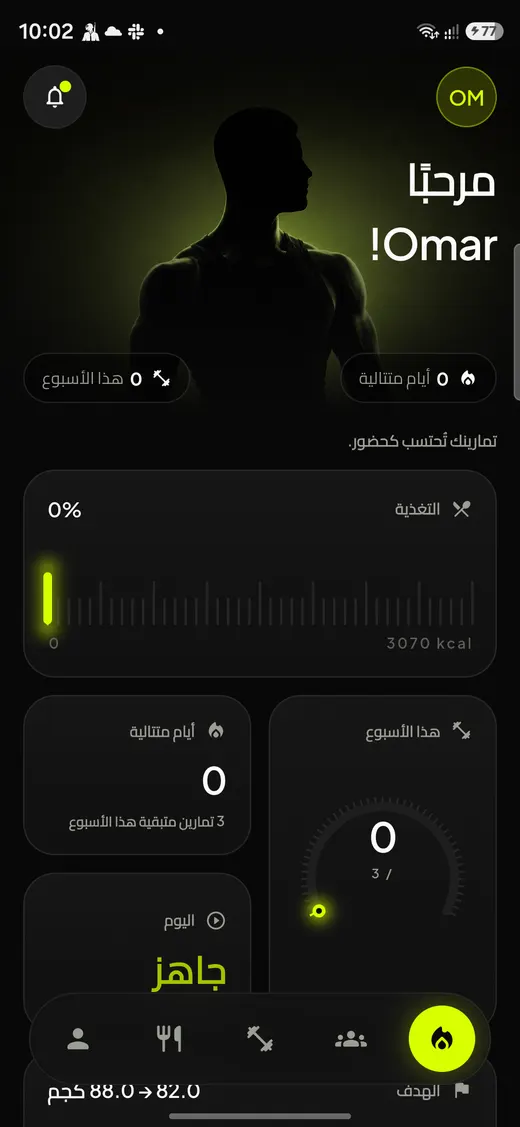
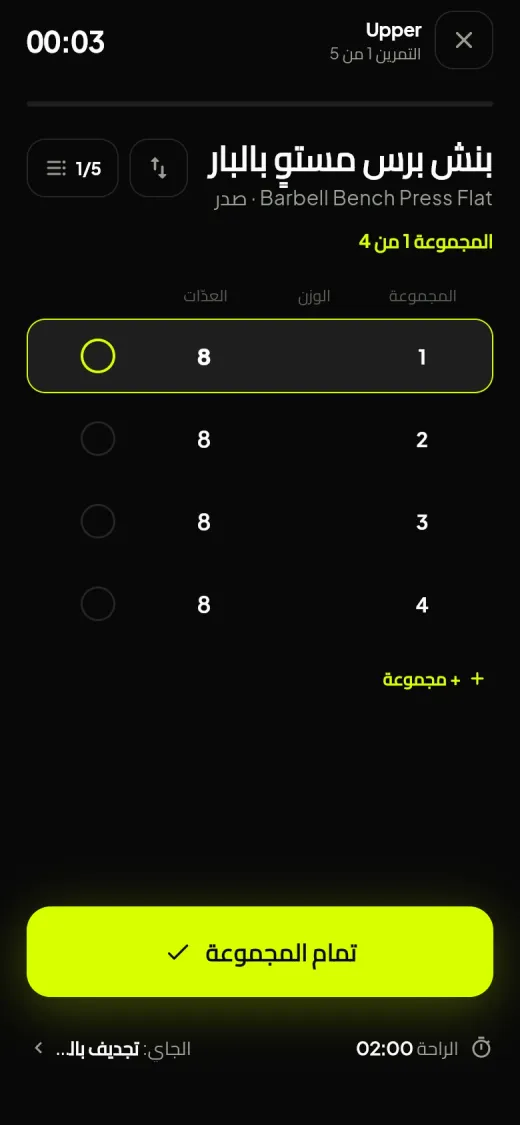
Use current Batal app screenshots and gym dashboard

diff --git a/src/style.css b/src/style.css
@@ -205,11 +205,14 @@ h2, h3 { font-weight: 800; font-stretch: 75%; text-transform: uppercase; letter-
 
 .proj__vis { position: relative; aspect-ratio: 5 / 3.6; border: 1.5px solid currentColor; border-radius: 14px; overflow: hidden; }
 .proj__vis svg { position: absolute; inset: 0; width: 100%; height: 100%; }
-.proj__vis--phones { border: 0; border-radius: 0; overflow: visible; aspect-ratio: 1 / 1; display: flex; justify-content: center; align-items: center; }
-.phone { width: 36%; border-radius: clamp(14px, 1.8vw, 26px); overflow: hidden; border: 3px solid #2a2b27; box-shadow: 0 30px 60px rgba(0, 0, 0, 0.55); background: #000; flex: none; }
-.phone--l { transform: rotate(-8deg) translateY(6%); margin-right: -7%; }
-.phone--r { transform: rotate(8deg) translateY(6%); margin-left: -7%; }
-.phone--c { width: 41%; z-index: 2; box-shadow: 0 30px 80px rgba(217, 248, 74, 0.16), 0 30px 60px rgba(0, 0, 0, 0.6); }
+.proj__vis--phones { border: 0; border-radius: 0; overflow: visible; aspect-ratio: 1 / 1; }
+.browser { position: absolute; top: 0; left: 0; width: 100%; border-radius: 12px; overflow: hidden; border: 1px solid #2a2b27; box-shadow: 0 20px 50px rgba(0, 0, 0, 0.5); }
+.browser::after { content: ''; position: absolute; inset: 0; background: linear-gradient(180deg, transparent 35%, #111210 96%); }
+.phones { position: absolute; left: 0; right: 0; bottom: 0; display: flex; justify-content: center; align-items: flex-end; }
+.phone { width: 29%; border-radius: clamp(14px, 1.8vw, 26px); overflow: hidden; border: 3px solid #2a2b27; box-shadow: 0 30px 60px rgba(0, 0, 0, 0.55); background: #000; flex: none; }
+.phone--l { transform: rotate(-7deg) translateY(-3%); margin-right: -5%; }
+.phone--r { transform: rotate(7deg) translateY(-3%); margin-left: -5%; }
+.phone--c { width: 33%; z-index: 2; box-shadow: 0 30px 80px rgba(217, 248, 74, 0.16), 0 30px 60px rgba(0, 0, 0, 0.6); }
 
 @media (min-width: 861px) and (min-height: 700px) {
   .proj { position: sticky; top: calc(74px + var(--i) * 10px); min-height: min(640px, calc(100svh - 150px)); }
@@ -217,7 +220,7 @@ h2, h3 { font-weight: 800; font-stretch: 75%; text-transform: uppercase; letter-
 @media (max-width: 860px) {
   .proj { grid-template-columns: 1fr; }
   .proj__vis { order: -1; }
-  .proj__vis--phones { aspect-ratio: 1 / 0.92; margin: 4px 0 8px; }
+  .proj__vis--phones { aspect-ratio: 1 / 1.02; margin: 4px 0 8px; }
   .proj__links a { flex: 1; text-align: center; padding: 14px 12px; }
 }
 

diff --git a/index.html b/index.html
@@ -113,16 +113,19 @@
             <p class="proj__one">A fitness app that plays like a game. Every workout earns XP and levels you up.</p>
             <ul class="proj__pts">
               <li>839 video exercises, nutrition tracked to the gram, challenges and achievements.</li>
-              <li>Gyms attach to their members by QR, with a staff app and an admin back-office.</li>
+              <li>Gyms attach to their members by QR, and run the front desk, billing and coaching from a web dashboard.</li>
               <li>Arabic and English, and it keeps working with no connection.</li>
             </ul>
             <p class="chips"><span>Flutter</span><span>NestJS</span><span>PostgreSQL</span><span>Prisma</span><span>Socket.IO</span><span>React</span><span>Docker</span><span>AWS</span></p>
             <p class="proj__links"><a href="https://batalfit.com" target="_blank" rel="noopener" data-cursor>batalfit.com ↗</a><a href="https://play.google.com/store/apps/details?id=com.batalfit.app" target="_blank" rel="noopener" data-cursor>Google Play ↗</a></p>
           </div>
           <div class="proj__vis proj__vis--phones">
-            <div class="phone phone--l"><img src="/img/batal-2.webp" width="520" height="1127" alt="Batal workout plan screen" loading="lazy" /></div>
-            <div class="phone phone--c"><img src="/img/batal-1.webp" width="520" height="1127" alt="Batal dashboard screen" loading="lazy" /></div>
-            <div class="phone phone--r"><img src="/img/batal-3.webp" width="520" height="1127" alt="Batal nutrition screen" loading="lazy" /></div>
+            <div class="browser"><img src="/img/batal-web.webp" width="1300" height="813" alt="Batal gym dashboard on the web" loading="lazy" /></div>
+            <div class="phones">
+              <div class="phone phone--l"><img src="/img/batal-1.webp" width="520" height="1125" alt="Batal live workout screen" loading="lazy" /></div>
+              <div class="phone phone--c"><img src="/img/batal-2.webp" width="520" height="1125" alt="Batal home screen" loading="lazy" /></div>
+              <div class="phone phone--r"><img src="/img/batal-3.webp" width="520" height="1125" alt="Batal nutrition screen" loading="lazy" /></div>
+            </div>
           </div>
         </article>
 

diff --git a/src/main.js b/src/main.js
@@ -137,8 +137,8 @@ if (!reduced) {
   gsap.to('.timeline__rail i', { scaleY: 1, ease: 'none', scrollTrigger: { trigger: '.timeline', start: 'top 60%', end: 'bottom 60%', scrub: true } })
 
   // Batal phones spread apart as the card comes in
-  gsap.from('.phone--l', { xPercent: 45, rotate: 0, scrollTrigger: { trigger: '.proj__vis--phones', start: 'top 95%', end: 'top 35%', scrub: 0.5 } })
-  gsap.from('.phone--r', { xPercent: -45, rotate: 0, scrollTrigger: { trigger: '.proj__vis--phones', start: 'top 95%', end: 'top 35%', scrub: 0.5 } })
+  gsap.from('.phone--l', { xPercent: 45, rotate: 0, scrollTrigger: { trigger: '.proj__vis--phones', start: 'top 80%', end: 'top 35%', scrub: 0.5 } })
+  gsap.from('.phone--r', { xPercent: -45, rotate: 0, scrollTrigger: { trigger: '.proj__vis--phones', start: 'top 80%', end: 'top 35%', scrub: 0.5 } })
 
   // stacked project cards: the one underneath shrinks back as the next slides over it
   ScrollTrigger.matchMedia({
